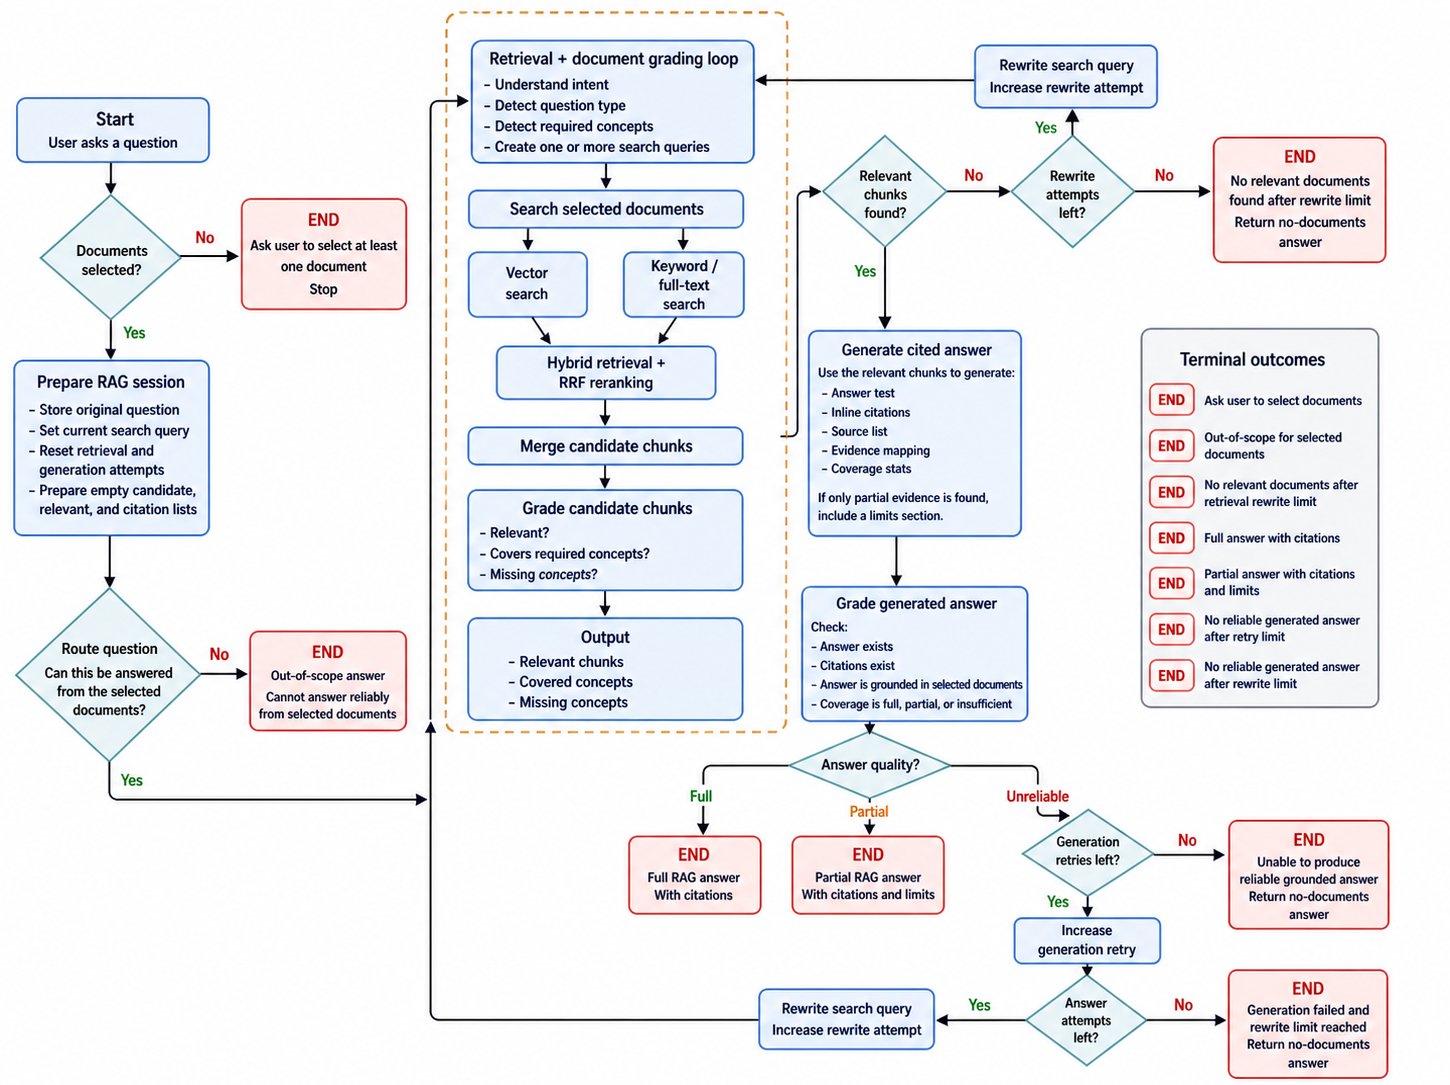
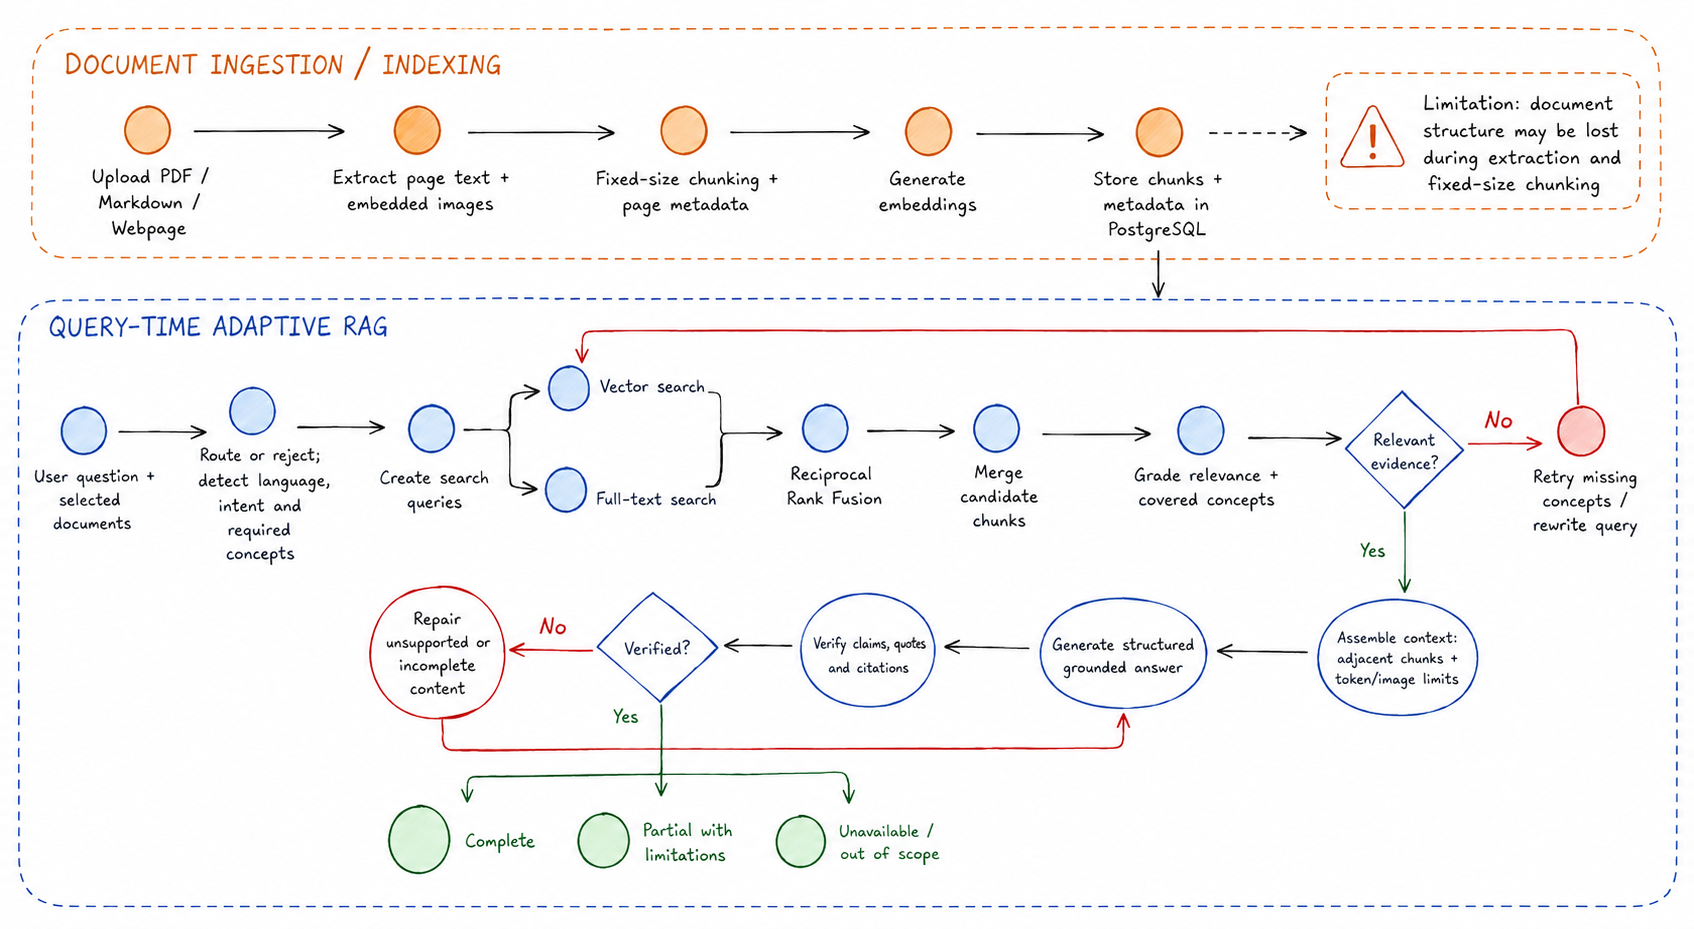
Update RAG workflow figure and captions
Refreshes Figure 3.3 and its accompanying text in both README.md and README.zh-TW.md to reflect the current RAG design. The updated wording now emphasizes the split between offline ingestion/indexing and query-time adaptive retrieval, context assembly, answer generation, citation verification, and bounded repair.

Changed region(s): [[0.0, 0.0, 0.9621, 0.9989], [0.2172, 0.8428, 0.3103, 0.9365]]

diff --git a/README.md b/README.md
@@ -42,9 +42,9 @@ The system follows a decoupled full-stack architecture: React/Vite and Expo fron
 
 *Figure 3.2. Entity relationship design for users, classes, documents, and chunk-level storage used to support retrieval and source grounding.*
 
-![Figure 3.3: Retrieval-Augmented Generation (RAG) System Workflow](docs/images/readme/figure-3-3-rag-workflow.png)
+![Figure 3.3: Current Retrieval-Augmented Generation (RAG) Workflow](docs/images/readme/figure-3-3-rag-workflow.png)
 
-*Figure 3.3. RAG system pipeline demonstrating document ingestion, embedding generation, context retrieval, and AI model response generation.*
+*Figure 3.3. Current RAG workflow, separating offline document ingestion and indexing from query-time adaptive retrieval, context assembly, answer generation, citation verification, and bounded repair.*
 
 ![Figure 3.4: Multi-Agent State Graph for Automated Exam Generation](docs/images/readme/figure-3-4-multi-agent-state-graph.png)
 

diff --git a/README.zh-TW.md b/README.zh-TW.md
@@ -42,9 +42,9 @@
 
 *圖 3.2。users、classes、documents 與 chunk-level storage 的 entity relationship 設計，用於支援 retrieval 與 source grounding。*
 
-![圖 3.3：Retrieval-Augmented Generation（RAG）系統工作流程](docs/images/readme/figure-3-3-rag-workflow.png)
+![圖 3.3：目前的 Retrieval-Augmented Generation（RAG）工作流程](docs/images/readme/figure-3-3-rag-workflow.png)
 
-*圖 3.3。RAG 系統流程，展示文件 ingestion、embedding generation、context retrieval 與 AI model response generation。*
+*圖 3.3。目前的 RAG 流程，區分離線文件 ingestion／indexing 與查詢階段的 adaptive retrieval、context assembly、answer generation、citation verification 及 bounded repair。*
 
 ![圖 3.4：自動考試生成的多代理人狀態圖](docs/images/readme/figure-3-4-multi-agent-state-graph.png)
 
